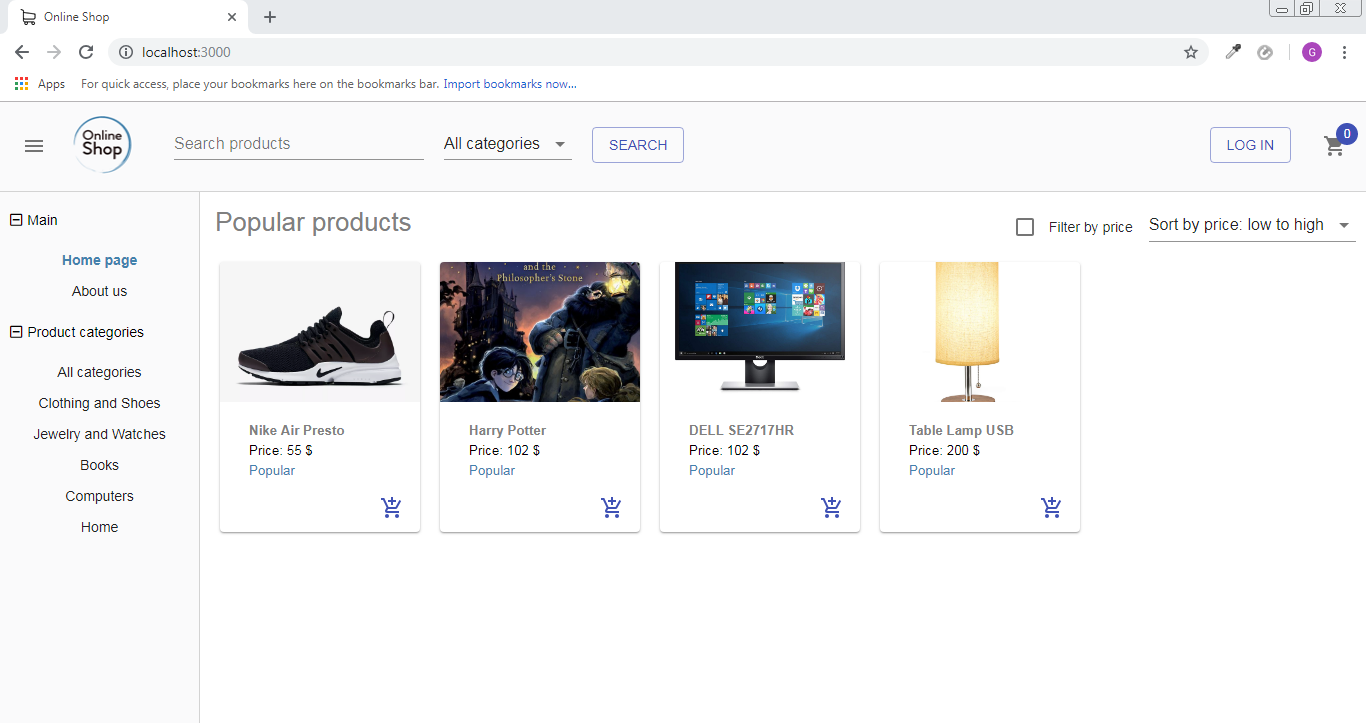
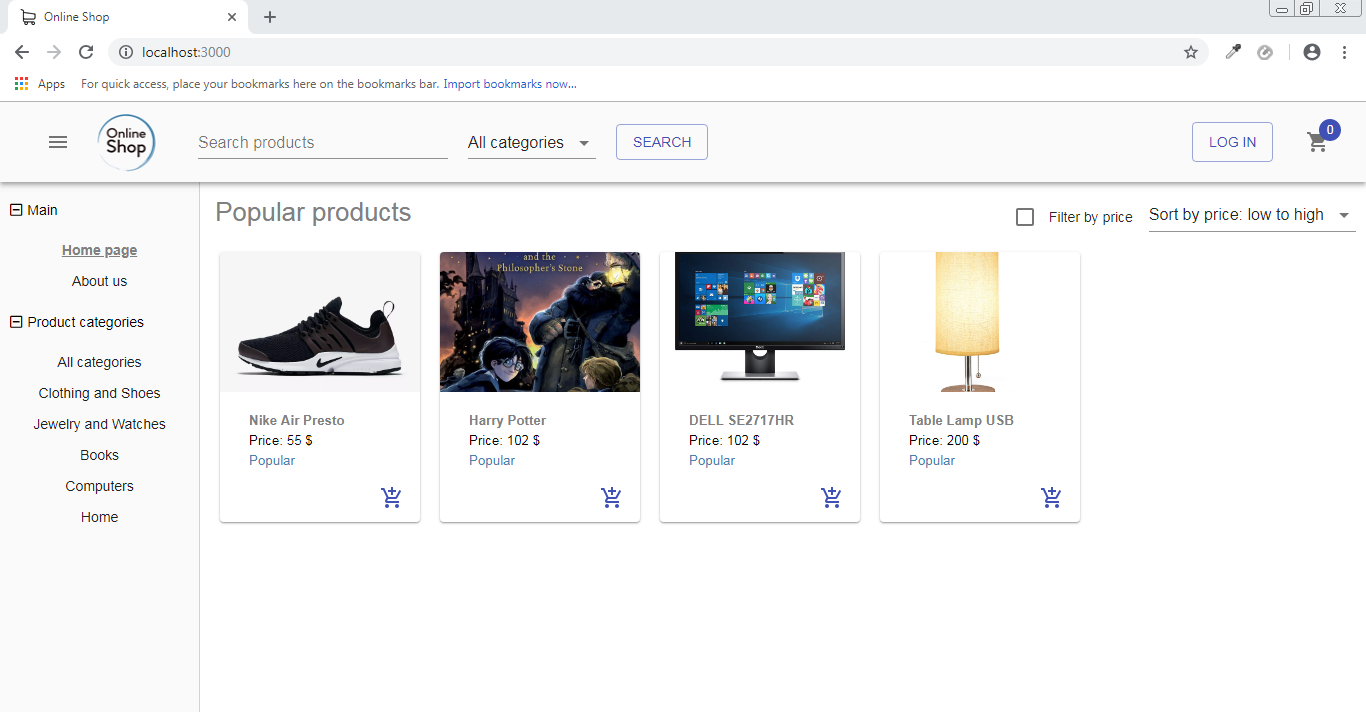
update header style

diff --git a/src/Components/Header/Header.js b/src/Components/Header/Header.js
@@ -17,7 +17,8 @@ import Avatar from '@material-ui/core/Avatar';
 import Menu from '@material-ui/core/Menu';
 import MenuItem from '@material-ui/core/MenuItem';
 import Select from '@material-ui/core/Select';
-
+import AppBar from '@material-ui/core/AppBar';
+import Toolbar from '@material-ui/core/Toolbar';
 
 const mapStateToProps = state => {
     return { nrOfItemsInCard: state.cartItems.length, loggedInUser: state.loggedInUser, };
@@ -40,28 +41,28 @@ class ConnectedHeader extends Component {
         let { anchorEl } = this.state;
 
         return (
-            <div className="header">
-                <div className="left-part">
-                    <div style={{ width: 50, marginTop: 20, marginLeft: 10 }}>
-                        <IconButton onClick={() => {
-                            this.props.dispatch(toggleMenu())
-                        }}>
-                            <MenuIcon size="medium" />
-                        </IconButton></div>
+            <AppBar position="static" style={{ backgroundColor: "#FAFAFB", height: 80 }}>
+                <Toolbar style={{ height: "100%" }}>
+                    <div className="left-part">
+                        <div style={{ width: 50, marginLeft: 10 }}>
+                            <IconButton onClick={() => {
+                                this.props.dispatch(toggleMenu())
+                            }}>
+                                <MenuIcon size="medium" />
+                            </IconButton></div>
 
-                    <img src={cartImage} alt={"Logo"} style={{ marginTop: 10, marginLeft: 10 }} width="64" height="64" />
-                    <TextField
-                        label="Search products"
-                        value={this.state.searchTerm}
-                        onChange={(e) => {
-                            this.setState({ searchTerm: e.target.value })
-                        }}
-                        style={{ marginLeft: 40, width: 250, marginTop: 10 }}
-                    />
-                    <div style={{ marginTop: 25, marginLeft: 20 }}>
-                       
+                        <img src={cartImage} alt={"Logo"} style={{ marginLeft: 10 }} width="64" height="64" />
+                        <TextField
+                            label="Search products"
+                            value={this.state.searchTerm}
+                            onChange={(e) => {
+                                this.setState({ searchTerm: e.target.value })
+                            }}
+                            style={{ marginLeft: 40, width: 250, paddingBottom: 14 }}
+                        />
+
                         <Select
-                            style={{ maxWidth: 200, marginTop:1 }}
+                            style={{ maxWidth: 200, marginTop: 1, marginLeft: 20 }}
                             value={this.state.categoryFilter}
                             MenuProps={{
                                 style: {
@@ -75,67 +76,66 @@ class ConnectedHeader extends Component {
                         >
                             {categoryOptions}
                         </Select>
+
+                        <Button style={{ marginLeft: 20, height: 10 }}
+                            variant="outlined"
+                            color="primary"
+
+                            onClick={() => {
+                                // Generate new URL to redirect user to 
+                                this.props.history.push('/search/?category=' + this.state.categoryFilter + "&term=" + this.state.searchTerm);
+                            }}> Search</Button>
                     </div>
-
-                    <Button style={{ marginTop: 25, marginLeft: 20, height: 10 }}
-                        variant="outlined"
-                        color="primary"
-
-                        onClick={() => {
-                            // Generate new URL to redirect user to 
-                            this.props.history.push('/search/?category=' + this.state.categoryFilter + "&term=" + this.state.searchTerm);
-                        }}> Search</Button>
-                </div>
-                <div className="right-part">
-
-                    <div style={{ width: 50, marginTop: 20, marginRight: 5 }}>
-                        <IconButton aria-label="Cart" onClick={() => {
-                            this.props.dispatch(showCartDlg(true))
-                        }}>
+                    <div className="right-part">
+                        {!this.props.loggedInUser ?
+                            (<Button
+                                variant="outlined"
+                                style={{ height: 40, marginRight: 20 }}
+                                color="primary"
+                                onClick={() => {
+                                    this.props.history.push('/login');
+                                }}>
+                                Log in
+                        </Button>) :
+                            (<Avatar
+                                onClick={(event) => {
+                                    this.setState({ anchorEl: event.currentTarget });
+                                }}
+                                style={{ backgroundColor: "#3f51b5", marginLeft: 20 }} >
+                                <Person />
+                            </Avatar>)
+                        }
+                        <IconButton aria-label="Cart"
+                            style={{ position: "absolute", right: 0 }}
+                            onClick={() => {
+                                this.props.dispatch(showCartDlg(true))
+                            }}>
                             <Badge badgeContent={this.props.nrOfItemsInCard} color="primary">
                                 <ShoppingCartIcon />
                             </Badge>
                         </IconButton>
-                    </div>
-                    {!this.props.loggedInUser ?
-                        (<Button
-                            variant="outlined"
-                            color="primary"
-                            style={{ height: 10, marginTop: 25, marginRight: 20 }}
-                            onClick={() => {
-                                this.props.history.push('/login');
+                        <Menu
+                            anchorEl={anchorEl}
+                            open={Boolean(anchorEl)}
+                            onClose={() => { this.setState({ anchorEl: null }); }}
+                        >
+                            <MenuItem onClick={() => {
+                                this.setState({ anchorEl: null })
+                                this.props.history.push('/order');
                             }}>
-                            Log in
-                        </Button>) :
-                        (<Avatar
-                            onClick={(event) => {
-                                this.setState({ anchorEl: event.currentTarget });
-                            }}
-                            style={{ marginTop: 22, marginRight: 20, backgroundColor: "#3f51b5" }} >
-                            <Person />
-                        </Avatar>)
-                    }
-                    <Menu
-                        anchorEl={anchorEl}
-                        open={Boolean(anchorEl)}
-                        onClose={() => { this.setState({ anchorEl: null }); }}
-                    >
-                        <MenuItem onClick={() => {
-                            this.setState({ anchorEl: null })
-                            this.props.history.push('/order');
-                        }}>
-                            Pending Order
-                        </MenuItem>
-                        <MenuItem onClick={() => {
-                            Auth.signout(() => {
-                                this.props.dispatch(setLoggedInUser(null))
-                                this.props.history.push('/');
-                            })
-                            this.setState({ anchorEl: null });
-                        }}>Logout</MenuItem>
-                    </Menu>
-                </div>
-            </div >
+                                Pending Order
+                            </MenuItem>
+                            <MenuItem onClick={() => {
+                                Auth.signout(() => {
+                                    this.props.dispatch(setLoggedInUser(null))
+                                    this.props.history.push('/');
+                                })
+                                this.setState({ anchorEl: null });
+                            }}>Logout</MenuItem>
+                        </Menu>
+                    </div>
+                </Toolbar>
+            </AppBar>
         );
     }
 }

diff --git a/src/Components/Menu/Menu.js b/src/Components/Menu/Menu.js
@@ -89,7 +89,8 @@ class ConnectedMenu extends Component {
                                     }}
                                     activeStyle={{
                                         fontWeight: 'bold',
-                                        color: "#4282ad"
+                                        color: "gray",
+                                        textDecoration: "underline"
                                     }}
                                 >
                                     <div className="menuItem">{x.name}</div>
@@ -110,7 +111,7 @@ class ConnectedMenu extends Component {
                                             }
                                         })
                                     }}
-                                    style={{ height: 30,   marginLeft: 10, marginTop: 20, cursor: "pointer", fontSize: 14 }}>
+                                    style={{ height: 30, marginLeft: 10, marginTop: 20, cursor: "pointer", fontSize: 14 }}>
                                     {this.state.expanded[x.id] ?
                                         <i className="far fa-minus-square" style={{ marginRight: 5 }}></i> :
                                         <i className="far fa-plus-square" style={{ marginRight: 5 }}></i>

diff --git a/src/Components/Header/Header.css b/src/Components/Header/Header.css
@@ -7,12 +7,16 @@
 
 .left-part {
     display: flex;
+    flex: 1;
+    align-items: center;
 }
 
 .right-part {
-    flex: 1;
+    position: relative;
     display: flex;
-    flex-direction: row-reverse;
+    width:150px;
+    align-items: center;
+
 }
 
 .react-dropdown-h {

diff --git a/src/Components/Menu/Menu.css b/src/Components/Menu/Menu.css
@@ -4,6 +4,7 @@
 	border-right: 1px solid lightgray;
 	overflow-y: auto;
 	background-color: #FAFAFB;
+	
 }
 
 .menuItem {
@@ -17,5 +18,6 @@
 
 .menuItem:hover {
 	font-weight: bold;
-	color:#4282ad
+	text-decoration: "underline";
+	color:gray;
 }
